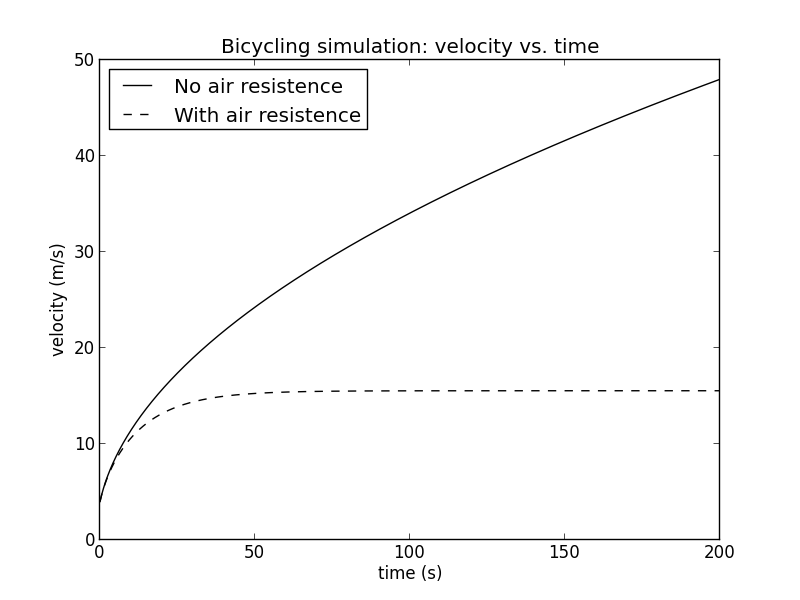
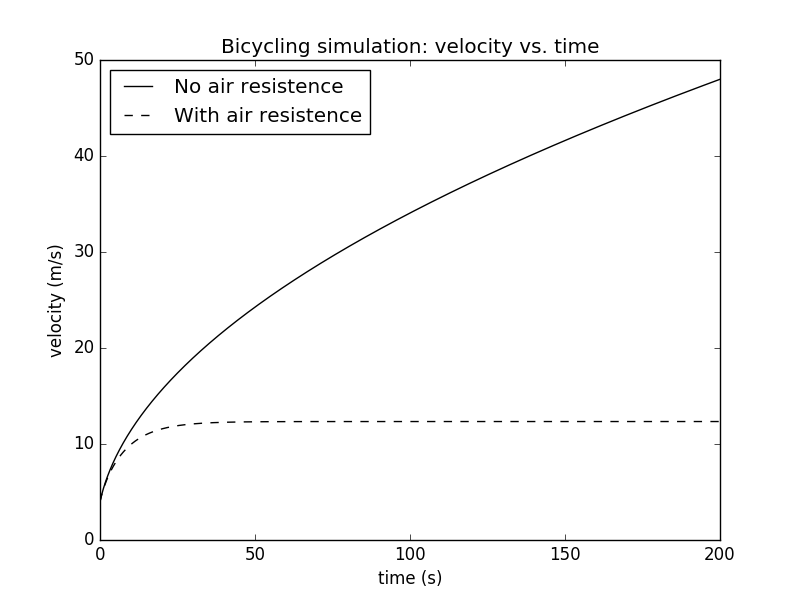
Figure 2.2

diff --git a/2/figure_2_2/figure_2_2.py b/2/figure_2_2/figure_2_2.py
@@ -8,7 +8,7 @@ P23 figure2.2的源程序
 import matplotlib.pyplot as plt
 
 DENSITY = 1.29 #空气密度(kg/m3)
-C = 0.5        #阻力系数
+C = 1.0        #阻力系数
 A = 0.33       #截面积(m2)
 M = 70.0       #人车质量(kg)
 v1 = 4.0       #（无阻力）速度(m/s)
